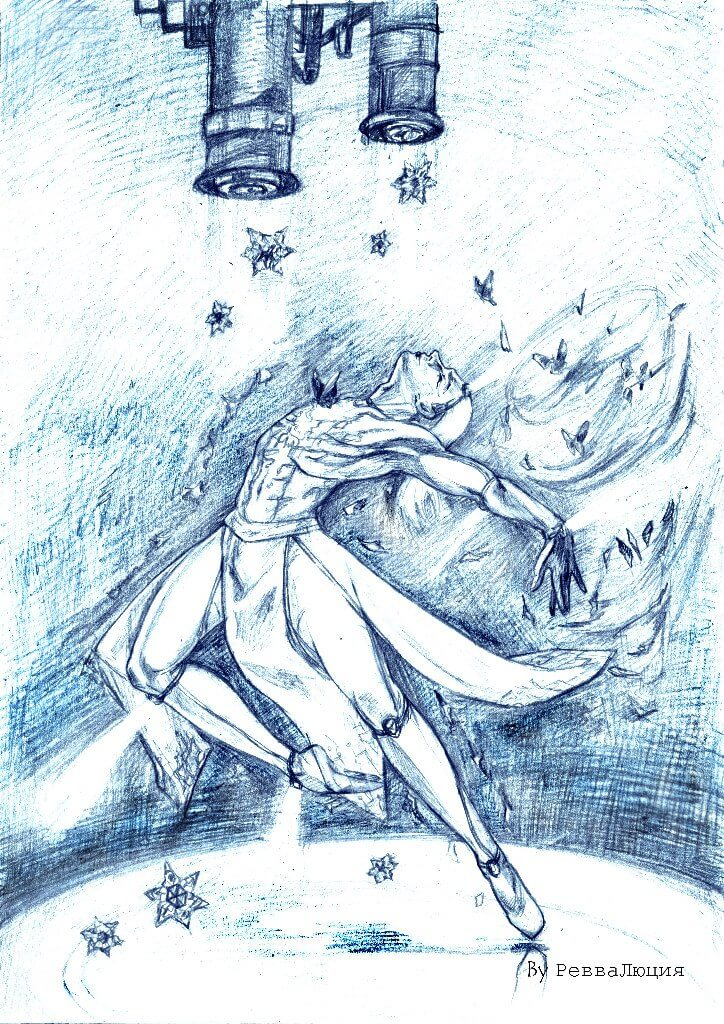
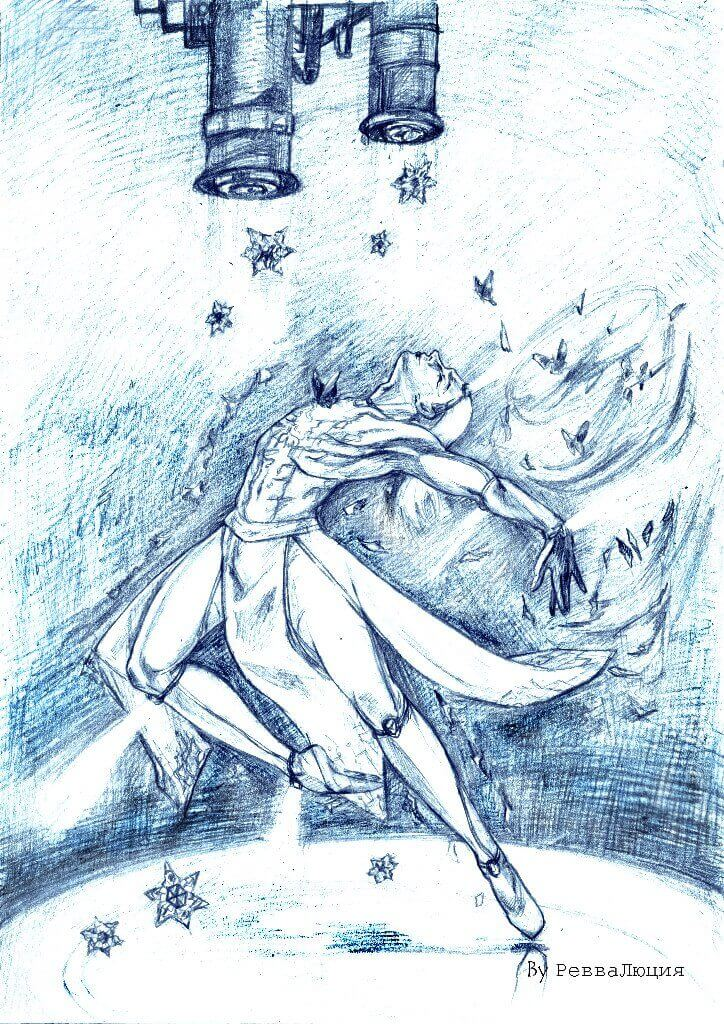
adyakova: tiny jpg + add 2 works

Changed region(s): [[0.4862, 0.9062, 0.5166, 0.9375]]

diff --git a/projects/adyakova/index.html b/projects/adyakova/index.html
@@ -231,6 +231,16 @@
                         <img src="img/watercolor/3.jpg" alt="">
                     </div>
                 </div>
+                <div class="column watercolor col-sm-6 col-md-3">
+                    <div class="content">
+                        <img src="img/watercolor/4.jpg" alt="">
+                    </div>
+                </div>
+                <div class="column watercolor col-sm-6 col-md-3">
+                    <div class="content">
+                        <img src="img/watercolor/5.jpg" alt="">
+                    </div>
+                </div>
                 <div class="column other col-sm-6 col-md-3">
                     <div class="content">
                         <img src="img/other/1.jpg" alt="">
